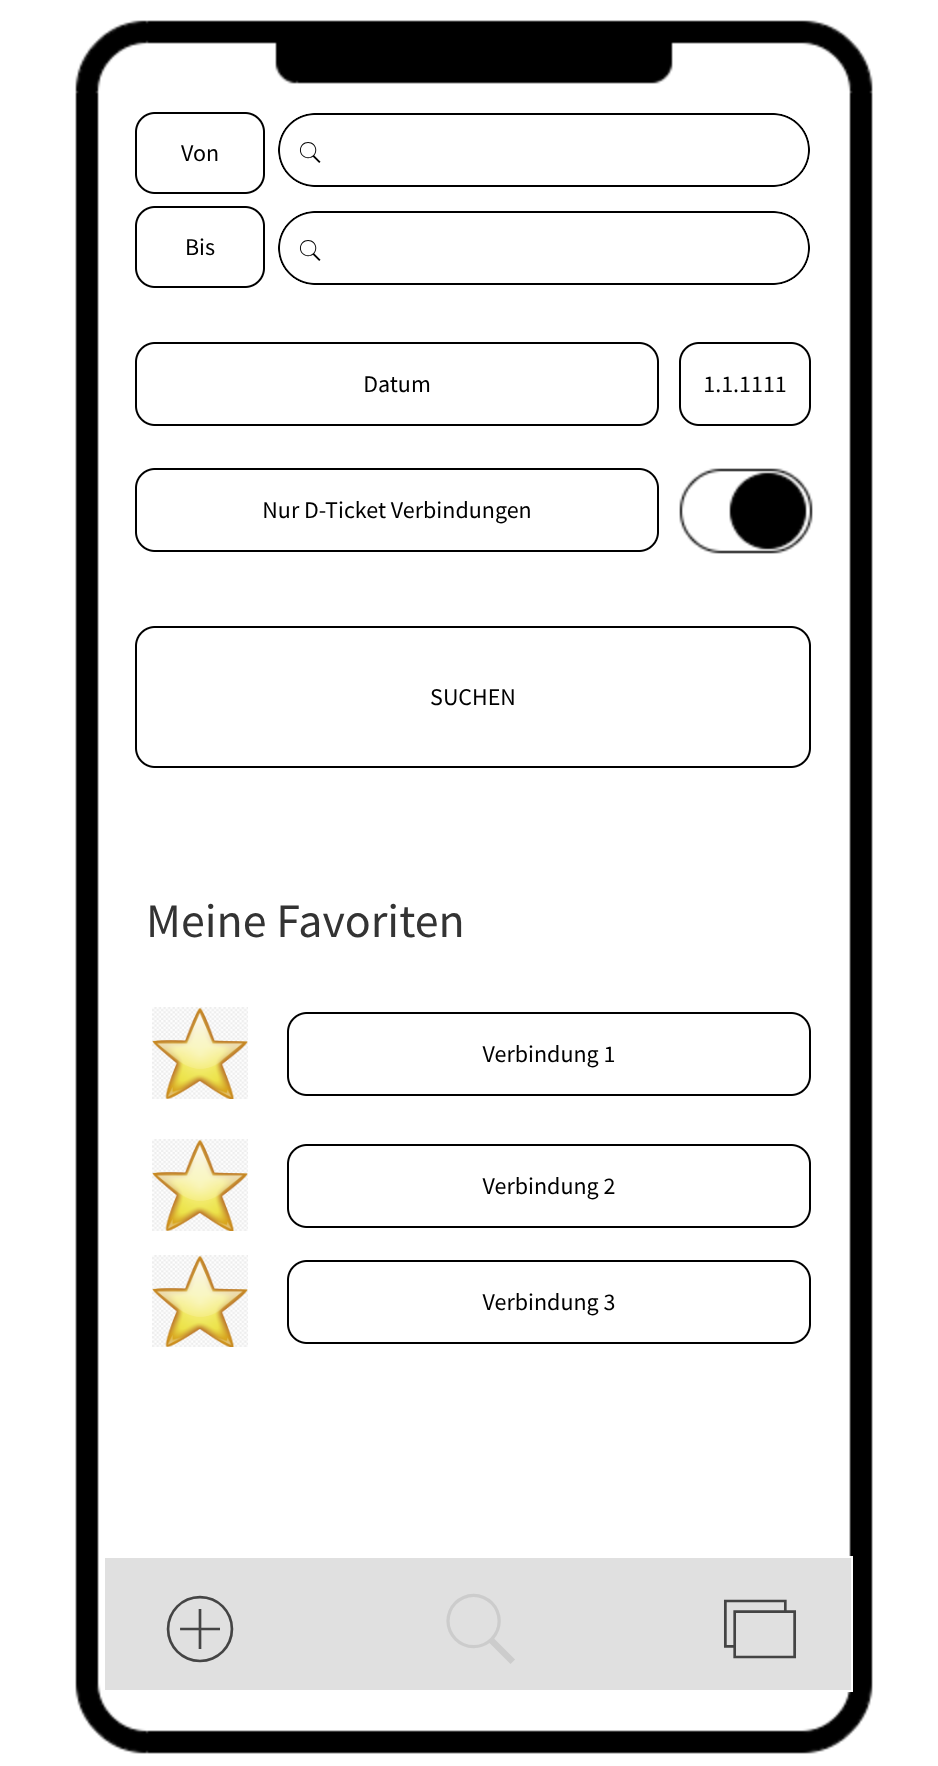
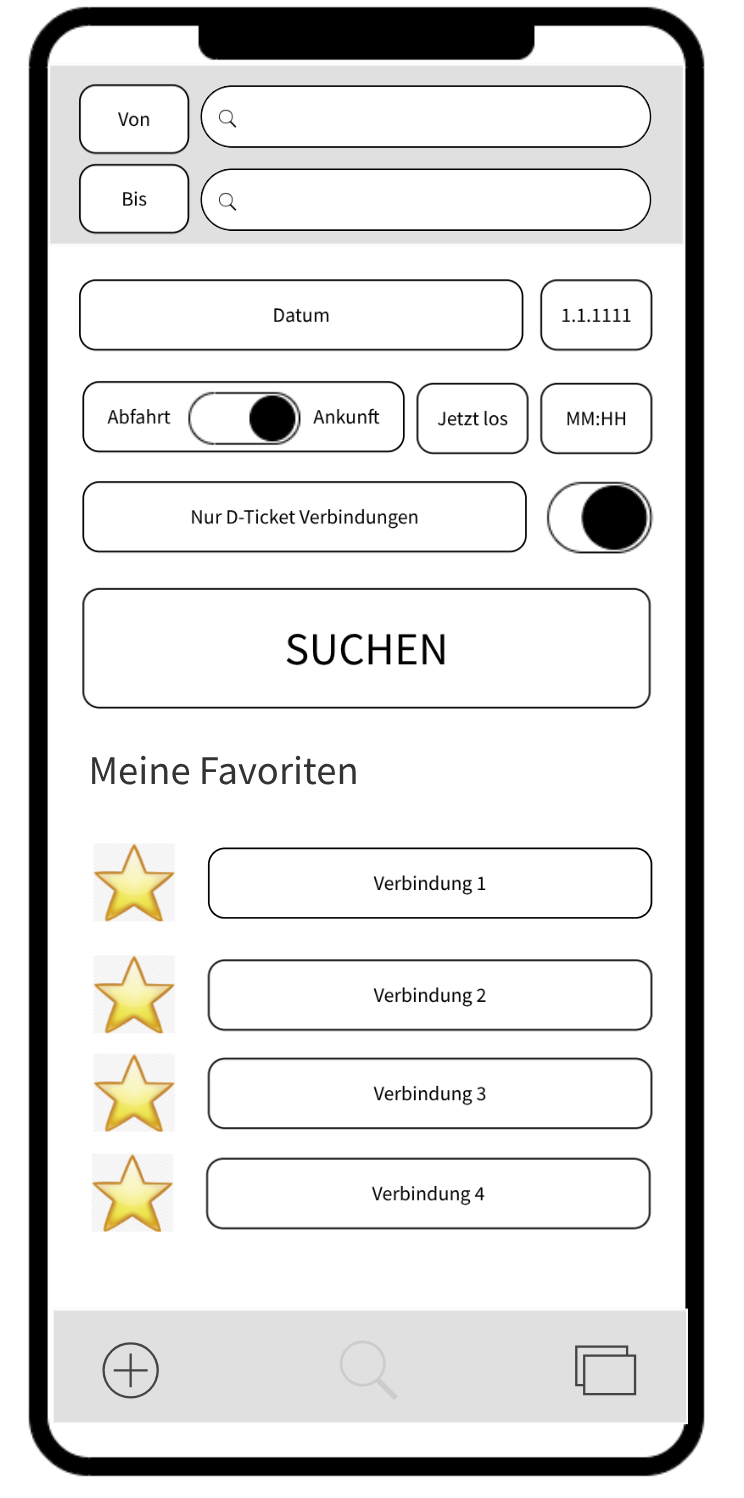
#2 aktualisierte Wireframes nach Vorestellung im Praktikum

Changed region(s): [[0.0309, 0.0, 0.9583, 1.0], [0.371, 0.4299, 0.6183, 0.4606]]

diff --git a/Readme.md b/Readme.md
@@ -1,3 +1,9 @@
 # MOCO Projekt Sommersemester 2026 Team 9
 Eine alternative zur DB-Navigator App, die historische Verbindungsdaten empirisch
 auswertet und Empfehlungen für Zugverbindungen liefert
+
+## Features die wir umsetzen möchten
+* Bei Verbindungssuche historische Daten zu Pünktlichkeit
+* Live-Standortverfolgung zum Pünktlichkeitsabgleich, alternativen werden vorgeschlagen
+* Nutzer-Rating für Verbindungen inkl. Kommentarfunktion
+* Kommentare können upvotes erhalten, um sie zu ordnen